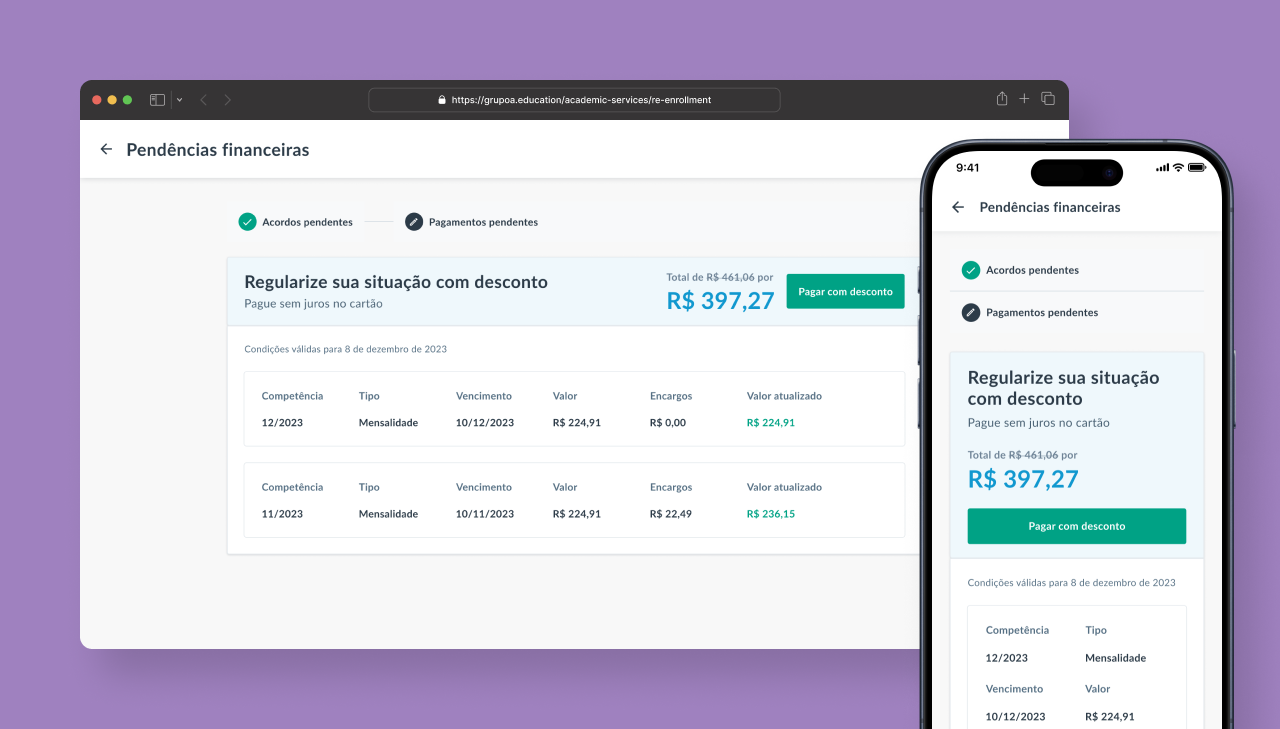
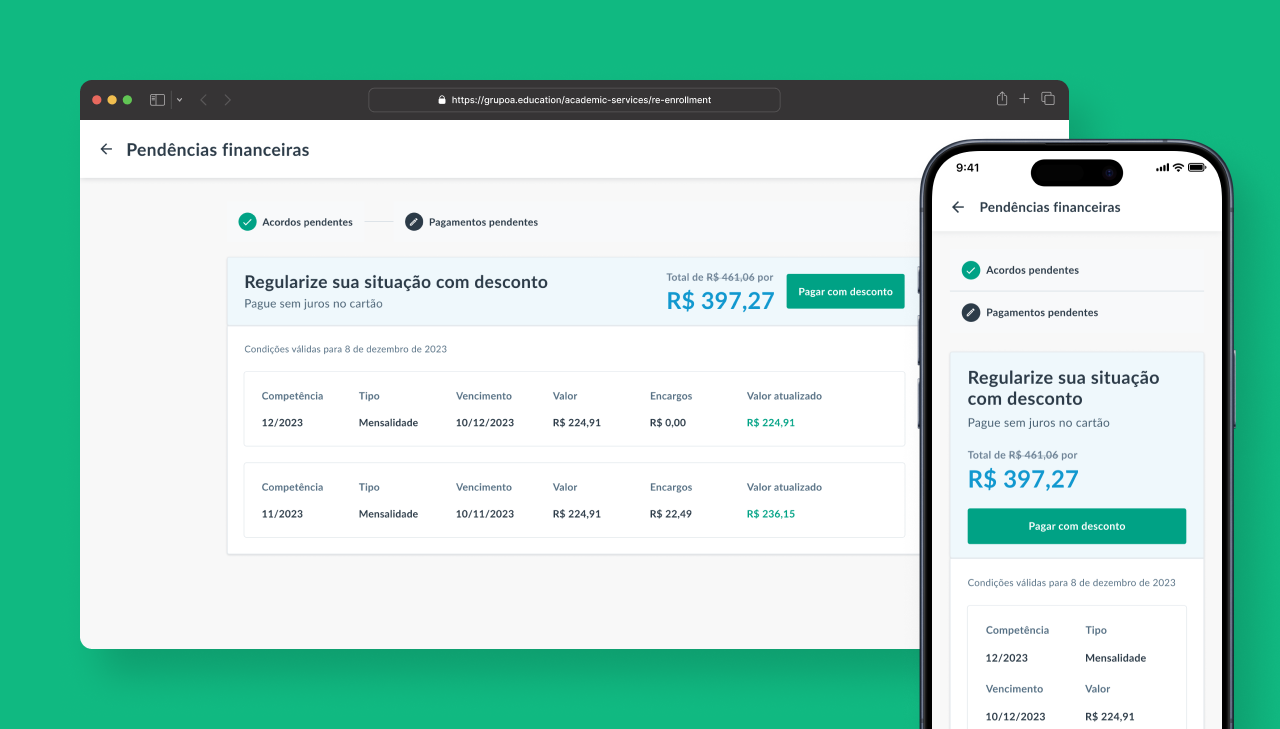
Melhorias em conteúdo e estilo da home

Changed region(s): [[0.0, 0.0, 1.0, 1.0]]

diff --git a/src/app/page.tsx b/src/app/page.tsx
@@ -1,74 +1,86 @@
-import * as motion from "framer-motion/client";
+"use client";
+import { motion, useScroll, useTransform } from "framer-motion";
 import Image from "next/image";
 import reenrollment from '/public/re-enrollment/case.png';
 import posgraduate from '/public/posgraduate/case.png';
 
 export default function Home() {
+  const { scrollYProgress } = useScroll();
   return (
     <main>
       <section className="space-y-7">
-        <div className="text-center">
-          <motion.p          
-            initial={{ opacity: 0 }}
-            animate={{ opacity: 1, y: [20, 0] }}
-            transition={{ duration: 0.4, ease: "easeOut" }}
-            className="title">
-            Tadeu Garcia
-          </motion.p>
-          <h1 className="text-zinc-300">
-            <motion.span            
+        <motion.div        
+          style={{
+            y: useTransform(scrollYProgress, [0, 1], [0, 400]), 
+            scale: useTransform(scrollYProgress, [0, 1], [1, 2])
+          }}
+          className="text-center">
+            <motion.p          
               initial={{ opacity: 0 }}
-              animate={{ opacity: 1, y: [20, 0]}}
-              transition={{ delay: 0.4, duration: 0.4, ease: "easeOut" }}
-              className="font-bold">
-              Senior Product Designer&nbsp;
-            </motion.span>           
-            <motion.span          
+              animate={{ opacity: 1, y: [20, 0] }}
+              transition={{ duration: 0.4, ease: "easeOut" }}
+              className="title">
+              Tadeu Garcia
+            </motion.p>
+            <motion.h1
+            className="text-zinc-300">
+              <motion.span            
+                initial={{ opacity: 0 }}
+                animate={{ opacity: 1, y: [20, 0]}}
+                transition={{ delay: 0.4, duration: 0.4, ease: "easeOut" }}
+                className="font-bold">
+                Senior Product Designer&nbsp;
+              </motion.span>           
+              <motion.span          
+                initial={{ opacity: 0 }}
+                animate={{ opacity: 1, x: [20, 0] }}
+                transition={{ delay: 0.8, duration: 0.4, ease: "easeOut" }}
+                className="font-light">
+                based in Rio de Janeiro🌴
+              </motion.span>
+            </motion.h1>
+        </motion.div>
+        <motion.div
+        style={{
+          opacity: useTransform(scrollYProgress, [0, .1], [1, 0]) // Começa visível e some
+        }}
+          className="flex space-x-2">
+            <motion.span 
               initial={{ opacity: 0 }}
-              animate={{ opacity: 1, x: [20, 0] }}
-              transition={{ delay: 0.8, duration: 0.4, ease: "easeOut" }}
-              className="font-light">
-              based in Rio de Janeiro🌴
+              animate={{ opacity: 1, y: [20, 0] }}
+              transition={{ delay: 1 + .1, duration: 0.4, ease: "easeOut" }}
+              className="chip">
+              financial services
             </motion.span>
-          </h1>
-        </div>
-        <div className="flex space-x-2">
-          <motion.span 
-            initial={{ opacity: 0 }}
-            animate={{ opacity: 1, y: [20, 0] }}
-            transition={{ delay: 1 + .1, duration: 0.4, ease: "easeOut" }}
-            className="chip">
-            financial services
-          </motion.span>
-          <motion.span  
-            initial={{ opacity: 0 }}
-            animate={{ opacity: 1, y: [20, 0] }}
-            transition={{ delay: 1 + .2, duration: 0.4, ease: "easeOut" }}
-            className="chip">
-            payment systems
-          </motion.span>
-          <motion.span  
-            initial={{ opacity: 0 }}
-            animate={{ opacity: 1, y: [20, 0] }}
-            transition={{ delay: 1 + .3, duration: 0.4, ease: "easeOut" }}
-            className="chip">
-            e-commerce
-          </motion.span>
-          <motion.span  
-            initial={{ opacity: 0 }}
-            animate={{ opacity: 1, y: [20, 0] }}
-            transition={{ delay: 1 + .4, duration: 0.4, ease: "easeOut" }}
-            className="chip">
-            b2b and b2c saas
-          </motion.span>
-          <motion.span  
-            initial={{ opacity: 0}}
-            animate={{ opacity: 1, y: [20, 0]}}
-            transition={{ delay: 1 + .5, duration: 0.4, ease: "easeOut" }}
-            className="chip">
-            front-end
-          </motion.span>
-        </div>
+            <motion.span  
+              initial={{ opacity: 0 }}
+              animate={{ opacity: 1, y: [20, 0] }}
+              transition={{ delay: 1 + .2, duration: 0.4, ease: "easeOut" }}
+              className="chip">
+              payment systems
+            </motion.span>
+            <motion.span  
+              initial={{ opacity: 0 }}
+              animate={{ opacity: 1, y: [20, 0] }}
+              transition={{ delay: 1 + .3, duration: 0.4, ease: "easeOut" }}
+              className="chip">
+              e-commerce
+            </motion.span>
+            <motion.span  
+              initial={{ opacity: 0 }}
+              animate={{ opacity: 1, y: [20, 0] }}
+              transition={{ delay: 1 + .4, duration: 0.4, ease: "easeOut" }}
+              className="chip">
+              b2b and b2c saas
+            </motion.span>
+            <motion.span  
+              initial={{ opacity: 0}}
+              animate={{ opacity: 1, y: [20, 0]}}
+              transition={{ delay: 1 + .5, duration: 0.4, ease: "easeOut" }}
+              className="chip">
+              front-end
+            </motion.span>
+        </motion.div>
 
         <motion.video
           width="720" height="480" 
@@ -76,6 +88,10 @@ export default function Home() {
           disablePictureInPicture preload="auto"
           animate={{ opacity: [0, 1], scale: [.9, 1]}}
           transition={{ delay: 1.7, duration: 0.4 }}
+          style={{
+            y: useTransform(scrollYProgress, [0, 1], [0, 300]), 
+            scale: useTransform(scrollYProgress, [0, 1], [1, 2])
+          }}
           className="rounded-2xl shadow-2xl shadow-zinc-500/40">
           <source src="intro.mp4" type="video/mp4" />
           Your browser does not support the video tag.
@@ -107,7 +123,7 @@ export default function Home() {
               initial={{ opacity: 0 }}
               whileInView={{ opacity: 1, y: [20, 0] }}
               transition={{ delay: 0.5, duration: 0.4, ease: "easeOut" }} 
-              className="case-card hover:border-purple-500 hover:shadow-purple-500/40" href="/re-enrollment">
+              className="case-card hover:border-emerald-500 hover:shadow-emerald-500/40" href="/re-enrollment">
               <ul className="flex space-x-2">
                 <li className="chip">usability testing</li>
                 <li className="chip">user behavior analysis</li>
@@ -116,7 +132,7 @@ export default function Home() {
               <Image src={reenrollment} alt="" width={500} height={300} />
               <div>
                 <h3 className="case-title">Payment of outstanding fees</h3>
-                <p>How I designed the re-enrollment flow, automating financial processes and <span className="underline decoration-2 decoration-purple-500">boosting debt clearance and re-enrollments.</span></p>
+                <p>How I designed the re-enrollment flow, automating financial processes and <span className="underline decoration-2 decoration-emerald-500">boosting debt clearance and re-enrollments.</span></p>
               </div>
             </motion.a>
 

diff --git a/src/app/mdx.css b/src/app/mdx.css
@@ -1,35 +1,40 @@
 main {
   @apply
-  w-[800px] px-0 py-20 text-white
+  px-0 py-20 text-white
 }
 
 hr {
   @apply
-  my-10
+  my-10 m-auto
+  w-[800px]
   border-slate-500
 }
 
 h1 {
   @apply
-  mb-10
+  mb-10 m-auto
+  w-[800px]
   text-7xl
 }
 
 h2 {
   @apply
-  mb-5
+  mb-5 m-auto
+  w-[800px]
   text-2xl font-bold
 }
 
 p {
   @apply
-  mb-5
+  mb-5 m-auto
+  w-[800px]
   text-xl font-light
 }
 
 ul {
   @apply
-  pl-5
+  pl-5 m-auto
+  w-[800px]
 }
 
 li {
@@ -51,7 +56,8 @@ mark {
 
 figure {
   @apply
-  pb-10
+  my-10 m-auto
+  max-w-[800px]
 }
 
 figure img {
@@ -66,6 +72,31 @@ figcaption {
 
 footer {
   @apply
-  pt-10
+  mt-10 pt-10 m-auto
+  w-[800px]
   border-t border-slate-500
+}
+
+.case-images {
+  @apply 
+  m-auto
+  w-fit
+  grid grid-flow-col auto-cols-max gap-x-8
+  transition duration-300 ease-in-out
+}
+
+.case-images figure {
+  @apply
+  h-[600px]
+}
+
+.case-images figcaption {
+  @apply font-light	text-zinc-400
+}
+
+.case-images img {
+  @apply
+  h-full
+  border rounded-2xl border-zinc-900
+  hover:scale-125 transition duration-300 ease-in-out
 }

diff --git a/src/app/globals.css b/src/app/globals.css
@@ -66,8 +66,8 @@ section {
   .btn-link {
     @apply 
     w-fit flex
-    text-xl underline decoration-0 underline-offset-8 hover:text-emerald-500
-    fill-white hover:fill-emerald-500
+    text-xl underline decoration-0 underline-offset-8 hover:text-neutral-500
+    fill-white hover:fill-neutral-500
     transition duration-300 ease-in-out
   }
 

diff --git a/src/app/posgraduate/layout.tsx b/src/app/posgraduate/layout.tsx
@@ -1,7 +1,7 @@
 import * as motion from "framer-motion/client";
 import type { Metadata } from "next";
 import "../mdx.css";
-import "../posgraduate.css";
+import "./style.css";
 
 export const metadata: Metadata = {
     title: "Tadeu Garcia - Posgraduate Redesign Case"

diff --git a/src/app/re-enrollment/layout.tsx b/src/app/re-enrollment/layout.tsx
@@ -1,7 +1,7 @@
 import * as motion from "framer-motion/client";
 import type { Metadata } from "next";
 import "../mdx.css";
-import "../re-enrollment.css";
+import "./style.css";
 
 export const metadata: Metadata = {
     title: "Tadeu Garcia - Re-enrollment Case"

diff --git a/src/app/re-enrollment/style.css b/src/app/re-enrollment/style.css
@@ -1,0 +1,13 @@
+body {
+  background-color: bg-emerald-950;
+}
+
+mark {
+  @apply
+  bg-emerald-800
+}
+
+.btn-link {
+  @apply
+  hover:text-emerald-500 hover:fill-emerald-500
+}
